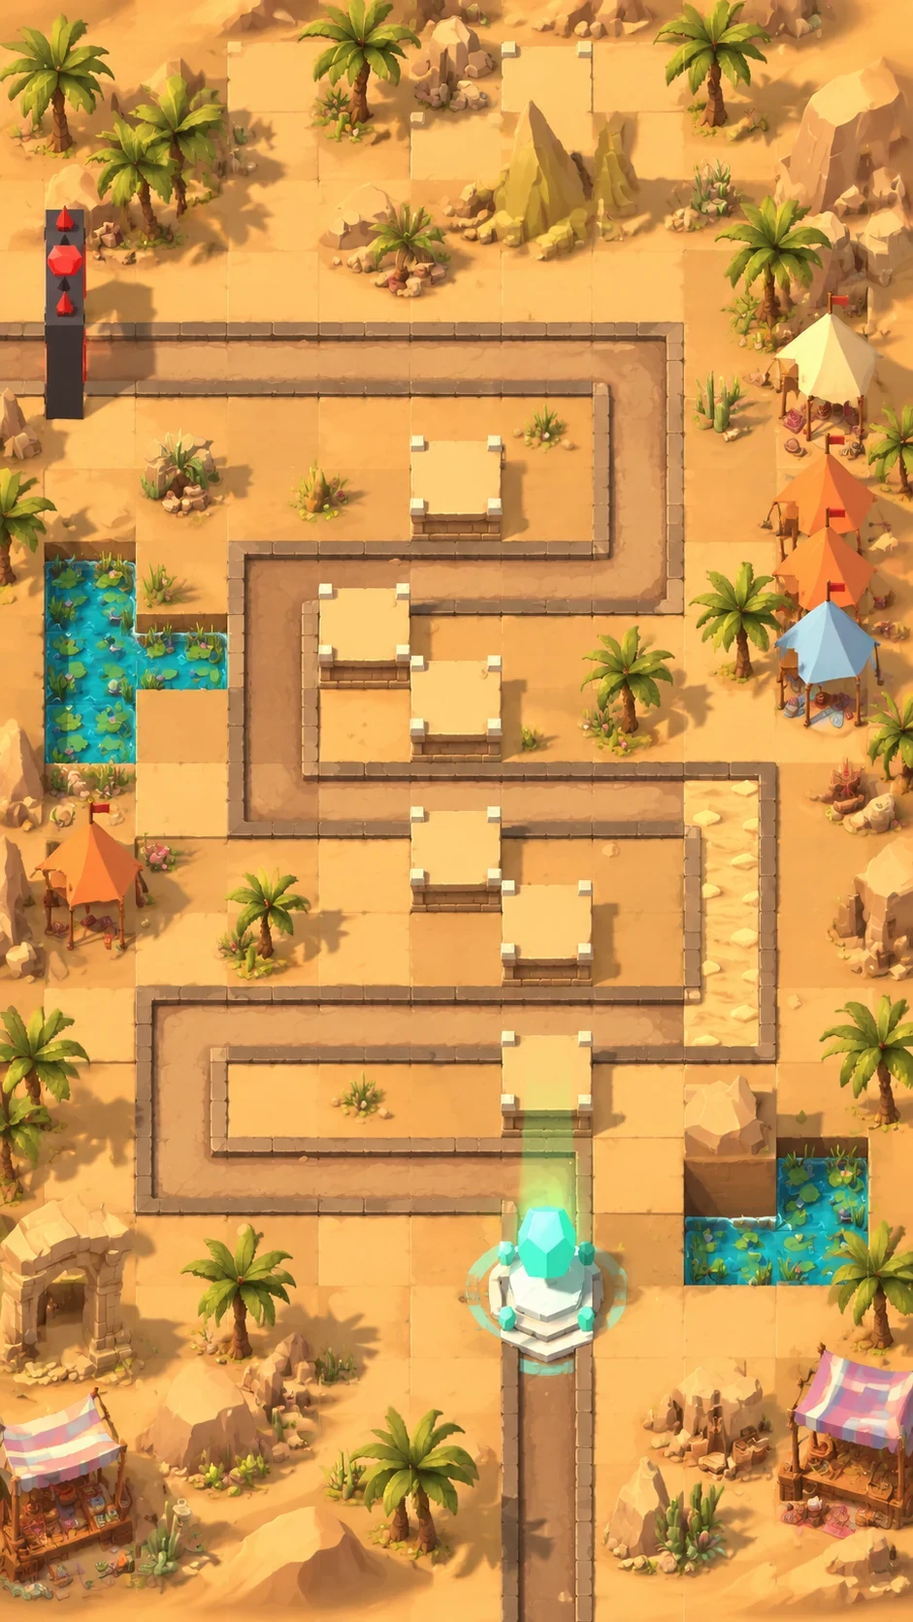
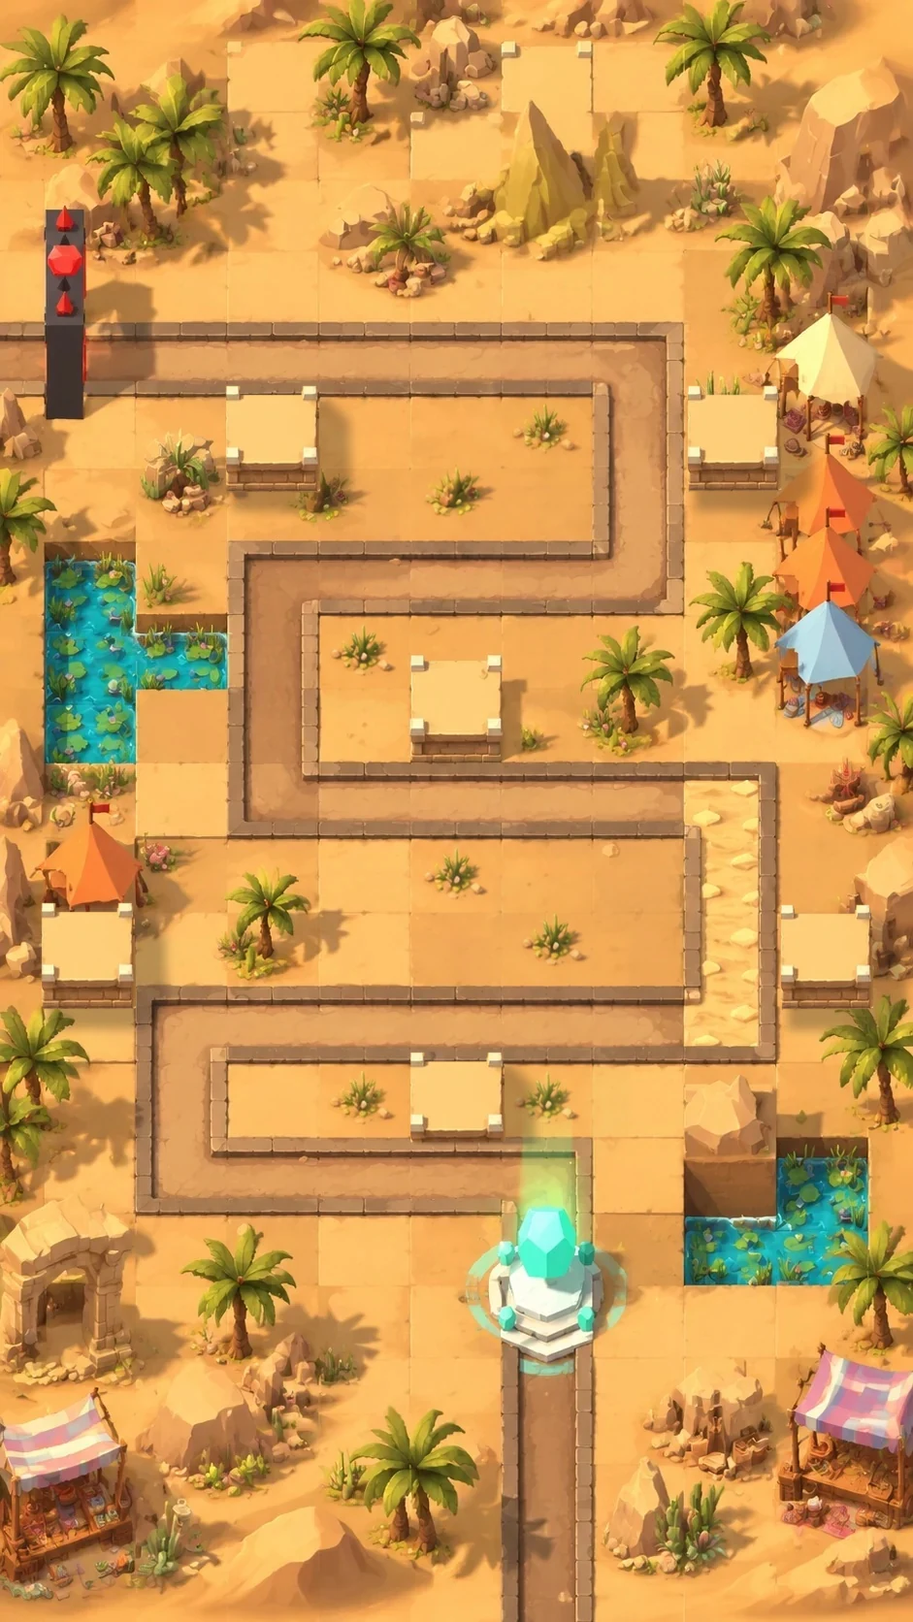
1.7.3: 전 장 발판 분산 배치(highAt) + 새 전장 그림 10장, 근접 간격 4칸, 난이도 재조정
Claude-Session: https://claude.ai/code/session_01Gn8peP3jwhA6eefzP5AmAn

diff --git a/js/data.js b/js/data.js
@@ -199,25 +199,25 @@ const SCENES={
 };
 const MAPS={
  prologue:{scene:'ruin',seed:11,w:9,h:9,paths:[[[1,-1],[1,1],[7,1],[7,4],[1,4],[1,7],[5,7],[5,9]]],
-  slow:[{path:0,from:12,to:14,type:'swamp'}],lakes:[[8,7.6,1.3]],noHigh:[[6,3],[2,6]],high:6,forest:6,cliff:1,prop:2,rock:3},
+  slow:[{path:0,from:12,to:14,type:'swamp'}],lakes:[[8,7.6,1.3]],noHigh:[[6,3],[2,6]],high:6,highAt:[[8,1],[1,2],[5,6],[0,7]],forest:6,cliff:1,prop:2,rock:3},
  fort:{scene:'fort',seed:23,w:9,h:10,paths:[[[9,1],[1,1],[1,4],[7,4],[7,7],[2,7],[2,10]]],
-  slow:[{path:0,from:13,to:16,type:'sand'}],lakes:[[8,9,1.2]],noHigh:[[6,5],[2,3]],high:6,forest:4,cliff:3,prop:3,rock:4},
+  slow:[{path:0,from:13,to:16,type:'sand'}],lakes:[[8,9,1.2]],noHigh:[[6,5],[2,3]],high:6,highAt:[[0,1],[6,2],[2,6],[8,7]],forest:4,cliff:3,prop:3,rock:4},
  river:{scene:'river',seed:37,w:9,h:11,paths:[[[4,-1],[4,1],[1,1],[1,4],[7,4],[7,7],[2,7],[2,9],[6,9],[6,11]]],
-  rivers:[{row:5,from:3,to:8}],lakes:[[0,9.5,1.2]],noHigh:[[6,8],[2,3]],high:7,forest:5,cliff:4,prop:2,rock:4},
+  rivers:[{row:5,from:3,to:8}],lakes:[[0,9.5,1.2]],noHigh:[[6,8],[2,3]],high:7,highAt:[[4,2],[0,3],[8,4],[3,6],[7,8]],forest:5,cliff:4,prop:2,rock:4},
  forest:{scene:'forest',seed:41,w:9,h:12,paths:[[[7,-1],[7,2],[1,2],[1,5],[5,5],[5,8],[1,8],[1,10],[6,10],[6,12]]],
-  slow:[{path:0,from:5,to:8,type:'swamp'},{path:0,from:19,to:21,type:'swamp'}],lakes:[[7,7,1.3]],high:7,forest:12,cliff:2,prop:4,rock:3},
+  slow:[{path:0,from:5,to:8,type:'swamp'},{path:0,from:19,to:21,type:'swamp'}],lakes:[[7,7,1.3]],high:7,highAt:[[5,1],[2,3],[6,4],[3,6],[0,9],[4,9],[7,10]],forest:12,cliff:2,prop:4,rock:3},
  city:{scene:'city',seed:53,paths:[[[1,-1],[1,3],[4,3],[4,6],[1,6],[1,9],[7,9],[7,12],[3,12],[3,14]],[[7,-1],[7,3],[4,3],[4,6],[1,6],[1,9],[7,9],[7,12],[3,12],[3,14]]],
-  rivers:[{col:8,from:5,to:7}],noHigh:[[3,2],[6,10]],high:8,forest:4,cliff:2,prop:8,rock:3},
+  rivers:[{col:8,from:5,to:7}],noHigh:[[3,2],[6,10]],high:8,highAt:[[0,2],[5,2],[0,7],[5,7],[3,11],[8,11]],forest:4,cliff:2,prop:8,rock:3},
  plain:{scene:'camp',seed:67,paths:[[[-1,1],[6,1],[6,4],[2,4],[2,7],[7,7],[7,10],[1,10],[1,12],[5,12],[5,14]]],
-  slow:[{path:0,from:22,to:25,type:'sand'}],lakes:[[0,5,1.4],[8,13,1.2]],noHigh:[[5,2],[3,11]],high:8,forest:6,cliff:2,prop:5,rock:5},
+  slow:[{path:0,from:22,to:25,type:'sand'}],lakes:[[0,5,1.4],[8,13,1.2]],noHigh:[[5,2],[3,11]],high:8,highAt:[[2,2],[7,2],[4,6],[0,9],[8,9],[4,11]],forest:6,cliff:2,prop:5,rock:5},
  ruins:{scene:'crystal',seed:79,paths:[[[4,-1],[4,2],[7,2],[7,5],[1,5],[1,8],[4,8],[4,10],[7,10],[7,12],[2,12],[2,14]]],
-  rivers:[{row:6,from:0,to:5},{row:11,from:5,to:8}],noHigh:[[6,1],[2,9]],high:8,forest:6,cliff:3,prop:6,rock:4},
+  rivers:[{row:6,from:0,to:5},{row:11,from:5,to:8}],noHigh:[[6,1],[2,9]],high:8,highAt:[[3,3],[8,3],[0,7],[5,7],[3,11],[8,12]],forest:6,cliff:3,prop:6,rock:4},
  tower:{scene:'tower',seed:83,paths:[[[-1,1],[7,1],[7,12],[1,12],[1,4],[5,4],[5,9],[3,9],[3,6]]],
-  slow:[{path:0,from:26,to:29,type:'swamp'}],high:8,noHigh:[[3,5],[6,8]],forest:4,cliff:3,prop:4,rock:4},
+  slow:[{path:0,from:26,to:29,type:'swamp'}],high:8,highAt:[[2,2],[8,2],[2,7],[8,7],[5,11],[0,12]],noHigh:[[3,5],[6,8]],forest:4,cliff:3,prop:4,rock:4},
  capital:{scene:'wall',seed:97,paths:[[[0,-1],[0,3],[3,3],[3,6],[6,6],[6,9],[2,9],[2,12],[6,12],[6,14]],[[8,-1],[8,3],[6,3],[6,6],[6,9],[2,9],[2,12],[6,12],[6,14]]],
-  rivers:[{row:10,from:4,to:8}],noHigh:[[7,5],[2,4]],high:8,forest:4,cliff:3,prop:7,rock:3},
+  rivers:[{row:10,from:4,to:8}],noHigh:[[7,5],[2,4]],high:8,highAt:[[6,1],[1,2],[7,6],[2,7],[6,11],[1,12]],forest:4,cliff:3,prop:7,rock:3},
  core:{scene:'core',seed:101,paths:[[[4,-1],[4,1],[1,1],[1,3],[7,3],[7,6],[1,6],[1,9],[7,9],[7,12],[4,12],[4,14]]],
-  slow:[{path:0,from:16,to:19,type:'swamp'}],lakes:[[4,7.6,1.1],[8,0,1.2]],noHigh:[[6,11],[2,7]],high:8,forest:7,cliff:3,prop:7,rock:3}
+  slow:[{path:0,from:16,to:19,type:'swamp'}],lakes:[[4,7.6,1.1],[8,0,1.2]],noHigh:[[6,11],[2,7]],high:8,highAt:[[2,2],[8,2],[5,5],[0,7],[8,9],[4,11]],forest:7,cliff:3,prop:7,rock:3}
 };
 
 // ── Bosses (battle 10 of each chapter) ──────────────────────────────────────────────────────────────
@@ -240,43 +240,43 @@ const BOSSES=[
 // set with the balance bot (node tools/bot.js calibrate).
 const POOLS=[[0,1,2,10,11,12],[1,3,4,10,11,15],[2,11,12,16,18,20],[0,8,13,19,20,22],[3,4,5,15,17,20,8],[11,15,16,18,20,21,24,26],[6,7,17,18,21,22,25,27],[5,15,17,20,21,22,28,29],[3,4,7,15,20,21,24,26,28],[6,7,9,17,21,22,25,27,29]];
 const CHAPTER_DEFS=[
- {id:'prologue',label:'PROLOGUE',name:'깨어난 빛',place:'국경 마을 에린',map:'prologue',battles:5,soldiers:3,bless:[2,4],diff:[.89,1,1.67],
+ {id:'prologue',label:'PROLOGUE',name:'깨어난 빛',place:'국경 마을 에린',map:'prologue',battles:5,soldiers:3,bless:[2,4],diff:[.89,1,1.08],
   names:['유적의 문','잠든 소녀','숲길의 소란','마을로 돌아가는 길'],
   intro:[['카일','이런 곳에 사람이… 괜찮아? 내 목소리 들려?'],['리아','리아… 내 이름은 리아. 그 외에는 아무것도 기억나지 않아.'],['카일','뒤에서 뭔가 움직여. 내 곁에 있어. 마을까지는 한 마리도 못 지나가게 하자.']],
   outro:[['리아','끝났어…? 저 수정이 무사해.'],['카일','응. 하지만 이건 시작일 뿐이야. 남문 쪽에서 연기가 올라오고 있어.']]},
- {id:'c1',label:'CHAPTER 01',name:'국경의 불꽃',place:'에린 남문',map:'fort',battles:6,soldiers:3,bless:[2,4],diff:[1.3,1,.44],
+ {id:'c1',label:'CHAPTER 01',name:'국경의 불꽃',place:'에린 남문',map:'fort',battles:6,soldiers:3,bless:[2,4],diff:[1.3,1,.43],
   names:['불타는 파수대','잿더미의 약속','남문의 방패','남문의 잔불','국경을 넘어서'],
   intro:[['브란','제국군이 마을을 포위했다. 퇴로는 내가 열겠다.'],['리아','저 병기들… 나를 찾고 있는 것 같아.'],['카일','누구에게도 넘기지 않아. 모두 살아서 나간다.']],
   outro:[['브란','집행관이 쓰러졌다. 지금이다, 국경을 넘어라!'],['카일','브란, 당신도 같이 가는 거야.']]},
- {id:'c2',label:'CHAPTER 02',name:'도망자',place:'회색 산맥',map:'river',battles:7,soldiers:2,bless:[3,5],diff:[1.89,1,.11],
+ {id:'c2',label:'CHAPTER 02',name:'도망자',place:'회색 산맥',map:'river',battles:7,soldiers:2,bless:[3,5],diff:[1.57,1,.46],
   names:['산길의 매복','바람길 정찰','바람의 궁수','협곡의 피난민','흔들리는 다리','설산의 문턱'],
   intro:[['세라','그 길은 막혔어. 살아서 산을 넘고 싶다면 따라와.'],['카일','우릴 왜 도와주는 거지?'],['세라','제국이 태운 마을이 너희 마을뿐인 줄 알아?']],
   outro:[['세라','폭군이 무너졌어. 이제 숲까지는 내리막이야.'],['리아','숲에서… 누군가 부르는 소리가 들려.']]},
- {id:'c3',label:'CHAPTER 03',name:'고대의 숲',place:'엘렌 숲',map:'forest',battles:8,soldiers:2,bless:[3,6],diff:[1.08,1,1.98],
+ {id:'c3',label:'CHAPTER 03',name:'고대의 숲',place:'엘렌 숲',map:'forest',battles:8,soldiers:2,bless:[3,6],diff:[1.18,1,1.06],
   names:['정령의 속삭임','오염된 뿌리','오염된 샘','숲의 샘을 지켜라','가시 덩굴 길','늪의 사냥꾼','숲의 심장'],
   intro:[['루나','정령들이 울고 있어요. 에테르의 흐름이 뒤틀렸어요.'],['리아','이 숲의 노래… 어디선가 들었어.'],['루나','당신을 두려워하는 게 아니에요. 기다리고 있었던 거예요.']],
   outro:[['루나','수호목이 잠들었어요. 숲이 다시 숨을 쉬어요.'],['카일','다음은 왕도야. 답을 아는 사람이 거기 있어.']]},
- {id:'c4',label:'CHAPTER 04',name:'왕도의 그림자',place:'왕도 레온',map:'city',battles:10,soldiers:1,bless:[3,6,9],diff:[1.43,1,.34],
+ {id:'c4',label:'CHAPTER 04',name:'왕도의 그림자',place:'왕도 레온',map:'city',battles:10,soldiers:1,bless:[3,6,9],diff:[1.07,1,.43],
   names:['지붕 위의 추적','그림자 문서','밤의 연락망','봉인된 기록','골목의 석궁','지하 서고','망령의 회랑','왕의 침묵','재상의 호위대'],
   intro:[['네로','왕궁 기록에 네 이름이 있더라. 백 년 전 문서에.'],['리아','내가… 백 년 전에?'],['네로','답을 원하면 지하 서고로 와. 경비병들은 알아서 피하고.']],
   outro:[['네로','재상은 그림자였어. 진짜는 북쪽에 있다.'],['브란','두 왕국이 움직이기 전에 평원으로 가야 한다.']]},
- {id:'c5',label:'CHAPTER 05',name:'두 왕국',place:'벨른 평원',map:'plain',battles:10,soldiers:1,bless:[3,6,9],diff:[2.35,1,.11],
+ {id:'c5',label:'CHAPTER 05',name:'두 왕국',place:'벨른 평원',map:'plain',battles:10,soldiers:1,bless:[3,6,9],diff:[1.72,1,.31],
   names:['갈라진 깃발','갈라진 전선','약탈자의 길','연합의 방어선','모래바람','황혼의 추적','포격 진지','강철의 행군','새벽의 진군'],
   intro:[['브란','두 왕국이 등을 돌린 사이 제국은 코어를 깨우고 있다.'],['세라','왕들이 못 정하면 우리가 길을 열면 돼.'],['카일','사람들을 지키자. 어느 깃발 아래에 있든.']],
   outro:[['세라','골렘이 멈췄어. 저 안에… 아르카의 문양이 있어.'],['리아','유적으로 가야 해. 내가 무엇이었는지 거기 있어.']]},
- {id:'c6',label:'CHAPTER 06',name:'아르카 유적',place:'아르카 외곽',map:'ruins',battles:10,soldiers:1,bless:[3,6,9],diff:[1.48,1,.17],
+ {id:'c6',label:'CHAPTER 06',name:'아르카 유적',place:'아르카 외곽',map:'ruins',battles:10,soldiers:1,bless:[3,6,9],diff:[1.45,1,.09],
   names:['강철의 기억','무너진 수로','에테르 수로','불씨의 통로','물안개 회랑','잠든 골렘','파수꾼의 길','수정 정원','봉인의 문'],
   intro:[['리아','나는 병기가 아니야. 병기를 멈추기 위한 열쇠였어.'],['루나','그렇다면 이번에도 멈출 수 있어요.'],['카일','과거가 널 정하게 두지 마. 지금의 선택은 네 거야.']],
   outro:[['리아','감시자가 꺼졌어. 문이 열려.'],['네로','그리고 나쁜 소식. 우리 좌표가 새고 있었어.']]},
- {id:'c7',label:'CHAPTER 07',name:'배신자',place:'검은 첨탑',map:'tower',battles:10,soldiers:1,bless:[3,6,9],diff:[2.28,1,.36],
+ {id:'c7',label:'CHAPTER 07',name:'배신자',place:'검은 첨탑',map:'tower',battles:10,soldiers:1,bless:[3,6,9],diff:[1.89,1,.16],
   names:['부서진 맹세','배신자의 흔적','거짓된 명령','나선 계단','폭풍의 층','망령의 층','검은 숲의 그림자','첨탑의 진실','대공의 날개'],
   intro:[['네로','연합군의 좌표를 넘긴 건 왕의 고문이었어.'],['브란','우리를 미끼로 썼다는 건가.'],['리아','코어가 모든 전장의 에테르를 흡수하고 있어. 전쟁 자체가 함정이야.']],
   outro:[['카일','대공이 떨어졌다. 남은 건 수도뿐이야.'],['세라','성문이 보여. 이젠 물러설 곳이 없어.']]},
- {id:'c8',label:'CHAPTER 08',name:'제국 수도',place:'북부 제국 아스켈',map:'capital',battles:10,soldiers:1,bless:[3,6,9],diff:[1.43,1,.25],
+ {id:'c8',label:'CHAPTER 08',name:'제국 수도',place:'북부 제국 아스켈',map:'capital',battles:10,soldiers:1,bless:[3,6,9],diff:[1.18,1,.32],
   names:['제국의 성문','수도의 피난길','불타는 거리','황혼의 광장','근위 석궁대','화염 포격','강철 근위대','왕좌의 계단','왕좌 너머'],
   intro:[['세라','성문이 열렸어. 이젠 물러설 곳이 없어.'],['카일','우린 제국을 무너뜨리러 온 게 아니야. 전쟁을 끝내러 왔어.'],['리아','코어의 목소리가 가까워지고 있어. 서둘러야 해.']],
   outro:[['카일','황제는 이미 오래전에 코어의 그림자였어.'],['리아','아래로 내려가는 길이 열렸어. 마지막이야.']]},
- {id:'final',label:'FINAL',name:'마지막 아르카',place:'코어의 심층',map:'core',battles:10,soldiers:1,bless:[3,6,9],diff:[1.89,1,.1],
+ {id:'final',label:'FINAL',name:'마지막 아르카',place:'코어의 심층',map:'core',battles:10,soldiers:1,bless:[3,6,9],diff:[1.35,1,.09],
   names:['기억의 회랑','마지막 에테르','수정의 파도','불과 물의 방','바람의 방','골렘의 무덤','비룡의 둥지','여섯 개의 빛','심층의 문'],
   intro:[['리아','다시 나를 봉인하면 모든 걸 멈출 수 있어.'],['카일','그건 백 년 전의 답이야. 이번에는 혼자가 아니잖아.'],['리아','응. 이번에는… 모두 함께 돌아가자.']],
   outro:[['리아','코어가 잠들었어. 이번에는… 나도 여기 있어.'],['카일','돌아가자. 모두 함께.']]}
@@ -374,15 +374,15 @@ function legacyTotal(id,n){const l=LEGACIES.find(v=>v.id===id);if(!l)return '';
 const MAP_ART={
  prologue:{file:'art/prologue.webp',rect:[0.0000,-0.0023,1.0000,0.9982],bg:'#66832b'},
  fort:{file:'art/fort.webp',rect:[-0.0083,0.0023,1.0017,1.0129],bg:'#618048'},
- river:{file:'art/river.webp',rect:[-0.0042,0.0000,0.9958,1.0005],bg:'#8ea0bf'},
+ river:{file:'art/river.webp',rect:[-0.0042,0.0000,0.9958,1.0005],bg:'#8e9fbe'},
  forest:{file:'art/forest.webp',rect:[-0.0125,-0.0352,0.9975,0.9450],bg:'#314720'},
- city:{file:'art/city.webp',rect:[-0.0042,0.0023,0.9958,0.9929],bg:'#a5562e'},
- plain:{file:'art/plain.webp',rect:[-0.0042,-0.0164,1.0058,0.9841],bg:'#cf914a'},
+ city:{file:'art/city.webp',rect:[-0.0042,0.0023,0.9958,0.9929],bg:'#a5562d'},
+ plain:{file:'art/plain.webp',rect:[-0.0042,-0.0164,1.0058,0.9841],bg:'#cd914a'},
  ruins:{file:'art/ruins.webp',rect:[0.0000,-0.0023,1.0000,0.9982],bg:'#314c24'},
- tower:{file:'art/tower.webp',rect:[-0.0042,-0.0258,0.9958,0.9747],bg:'#443334'},
- capital:{file:'art/capital.webp',rect:[-0.0083,-0.0399,1.0017,0.9707],bg:'#593c35'},
- core:{file:'art/core.webp',rect:[0.0000,0.0000,1.0000,1.0005],bg:'#272d43'}
+ tower:{file:'art/tower.webp',rect:[-0.0042,-0.0258,0.9958,0.9747],bg:'#433334'},
+ capital:{file:'art/capital.webp',rect:[-0.0083,-0.0399,1.0017,0.9707],bg:'#593c34'},
+ core:{file:'art/core.webp',rect:[0.0000,0.0000,1.0000,1.0005],bg:'#262d43'}
 };
-const TDData={WORLD_MAP,ALTAR,legacyTotal,SOLDIER_POWER,MAP_ART,legacyScale,unitStats,RANGED_INTERVAL,RANGED_POWER,MELEE_INTERVAL,MELEE_POWER,GATE_GAP:2,seeded,LEGACIES,legacyOffer,legacyCounts,typicalLegacy,MELEE_GAP:3,SKILLS,UNITS,HERO_ORDER,SOLDIER_ORDER,RANK_COST,RANK_STAT,RANK_GUARD,REFUND,WITHDRAW_CD,DOWN_CD,ENGAGE_SLOW,MONSTERS,MODEL_TRAITS,MOVE_SPEED,ELEMENT_ICON,SCENES,MAPS,CHAPTERS,BOSSES,BLESSINGS};
+const TDData={WORLD_MAP,ALTAR,legacyTotal,SOLDIER_POWER,MAP_ART,legacyScale,unitStats,RANGED_INTERVAL,RANGED_POWER,MELEE_INTERVAL,MELEE_POWER,GATE_GAP:2,seeded,LEGACIES,legacyOffer,legacyCounts,typicalLegacy,MELEE_GAP:4,SKILLS,UNITS,HERO_ORDER,SOLDIER_ORDER,RANK_COST,RANK_STAT,RANK_GUARD,REFUND,WITHDRAW_CD,DOWN_CD,ENGAGE_SLOW,MONSTERS,MODEL_TRAITS,MOVE_SPEED,ELEMENT_ICON,SCENES,MAPS,CHAPTERS,BOSSES,BLESSINGS};
 if(typeof module!=='undefined'&&module.exports)module.exports=TDData;else root.TDData=TDData;
 })(typeof window!=='undefined'?window:globalThis);

diff --git a/revisions.html b/revisions.html
@@ -36,8 +36,14 @@ details.rev summary{cursor:pointer}
 <h1>Revision History</h1>
 <p class="lead">큰 변화는 두 번째 자리(1.1.0), 작은 수정은 세 번째 자리(1.0.1)를 올립니다.</p>
 
+<section class="rev" id="v1.7.3">
+<h2>ver.1.7.3 <span class="date">2026-11-26</span> <span class="tag">현재</span></h2>
+<h3>변경</h3><ul><li>모든 전장의 원거리 발판을 다시 배치했습니다 — 개수는 그대로, 가운데에 몰려 있던 발판을 전장 전체(입구 쪽 · 가운데 · 수정 쪽 · 양옆)로 흩어 놓았고, 구부러진 길 바깥쪽의 외곽 발판도 생겼습니다. 전장 그림도 새 발판에 맞춰 다시 그렸습니다</li></ul>
+<h3>밸런스</h3><ul><li>길 위의 근접 동료끼리 떨어져야 하는 거리를 3칸에서 4칸으로 늘렸습니다 — 근접 동료도 길 전체에 나눠 세우게 됩니다</li><li>바뀐 배치에 맞춰 장별 난이도를 다시 맞췄습니다</li></ul>
+</section>
+
 <section class="rev" id="v1.7.2">
-<h2>ver.1.7.2 <span class="date">2026-11-26</span> <span class="tag">현재</span></h2>
+<h2>ver.1.7.2 <span class="date">2026-11-26</span></h2>
 <h3>변경</h3><ul><li>전투 화면을 정리했습니다 — 자동 기술 이름 글자를 없애고(필살기 이름만 표시), 콤보는 글자 대신 빛으로, 기본 공격과 동료가 받는 피해 숫자는 숨기고, 한 몬스터에 잇달아 들어간 기술 피해는 숫자 하나로 합쳐 보여 줍니다</li><li>전투 중에는 동료 머리 위 랭크 별을 숨기고(준비 시간이나 선택했을 때만 표시), 체력바는 다쳤을 때만 보입니다</li></ul>
 <h3>밸런스</h3><ul><li>적 출현 문 근처 근접 배치 금지 거리를 3칸에서 2칸으로 줄였습니다 — 화면 위쪽 길도 쓸 수 있습니다</li><li>명당이 동료들이 이미 모여 있는 곳보다 비어 있는 쪽에 더 자주 생깁니다</li><li>바뀐 배치에 맞춰 장별 난이도를 다시 맞췄습니다</li></ul>
 </section>

diff --git a/sw.js b/sw.js
@@ -1,6 +1,6 @@
 // cnation TD service worker: lets the game be added to the home screen and opened offline.
 // Network first, so a new deploy shows up on the next open; the cache is only a fallback. Music is cache-first (large, never changes).
-const VERSION='1.7.2',CACHE='cnation-td-'+VERSION;
+const VERSION='1.7.3',CACHE='cnation-td-'+VERSION;
 const CORE=['./','index.html','manifest.webmanifest','vendor/three-r170.js','js/data.js','js/sim.js','js/models.js','js/game.js','fonts/stylish.woff2','fonts/gowun-dodum.woff2','icons/icon-192.png','icons/icon-512.png','icons/apple-touch-icon.png','icons/favicon-64.png','revisions.html'];
 self.addEventListener('install',e=>{e.waitUntil(caches.open(CACHE).then(c=>c.addAll(CORE)).catch(()=>{}));self.skipWaiting();});
 self.addEventListener('activate',e=>{e.waitUntil(caches.keys().then(keys=>Promise.all(keys.filter(k=>k.startsWith('cnation-td-')&&k!==CACHE).map(k=>caches.delete(k)))).then(()=>self.clients.claim()));});

diff --git a/index.html b/index.html
@@ -294,10 +294,10 @@ html,body{margin:0;height:100%;overflow:hidden;background:#0d1a1e;color:var(--in
  <div id="modal" hidden></div>
 </div>
 <script src="vendor/three-r170.js"></script>
-<script src="js/data.js?v=1.7.2"></script>
-<script src="js/sim.js?v=1.7.2"></script>
-<script src="js/models.js?v=1.7.2"></script>
-<script src="js/game.js?v=1.7.2"></script>
+<script src="js/data.js?v=1.7.3"></script>
+<script src="js/sim.js?v=1.7.3"></script>
+<script src="js/models.js?v=1.7.3"></script>
+<script src="js/game.js?v=1.7.3"></script>
 <script>if('serviceWorker' in navigator&&location.protocol!=='file:')window.addEventListener('load',()=>navigator.serviceWorker.register('sw.js').catch(()=>{}));</script>
 </body>
 </html>

diff --git a/CLAUDE.md b/CLAUDE.md
@@ -36,7 +36,7 @@ Unless the owner says otherwise, every finished change is committed, pushed to t
 - Chapters are generated from `CHAPTER_DEFS` by `buildChapter` (waves from `POOLS`, roster from `JOIN_AT`). Maps in `MAPS` are grown
   around the road by `sim.buildMap` from each map's seed, so the same map always comes out the same.
 - Melee characters do not stop monsters: a monster inside a melee unit's tile (up to `block` at once) moves at `ENGAGE_SLOW` (2/3) and hits it.
-  Melee units on the road must stand at least `MELEE_GAP` (3) tiles apart (`canDeploy`); the screen shows the forbidden zone while placing.
+  Melee units on the road must stand at least `MELEE_GAP` (4 since 1.7.3) tiles apart (`canDeploy`); the screen shows the forbidden zone while placing.
 - 필살기 (1.7.0, the core of play): power arcaslash 8, meteor 7.2, eclipse 9.6, hawk 19 (×1.6 of 1.2.0); bosses take full damage. Ult damage events
   carry `ult`/`pct`/`aff` (the affinity share, shown as a second number) / `element` / `chain`; the screen shows a landing reticle, impact,
   an element flourish (`elemfx`), hit stop and big popping numbers.
@@ -59,8 +59,9 @@ Unless the owner says otherwise, every finished change is committed, pushed to t
 - Battle declutter (1.7.2): no name labels for auto skills (필살기 only), combos are a gold ring (암습 a red X), no numbers for basic attacks or
   damage to allies, skill hits on one monster within 0.3 s merge into one number (`numOf`, dmg events carry `skill`); character HP bars only
   when hurt and ★ only while preparing or selected.
-- Pedestal spread (planned, docs/REPAINT2.md): `MAPS[id].highAt` = hand-placed pedestals (same count, spread out, 1–3 outer-bend spots);
-  applied together with the repainted art, then recalibrate.
+- Pedestal spread (1.7.3, docs/REPAINT2.md): every map has `MAPS[id].highAt` = hand-placed pedestals (same count, spread as far apart as
+  possible, 1–3 outer-bend spots; replaces the grown high cells), and the paintings were repainted to match. To move a pedestal: edit
+  `highAt`, re-make the guide, repaint, `fit-art.py --apply`.
 - 수정 조각: `S.shardIn` (first 18 s, then 40 s of battle) → `S.shard` + event `shard`; `S.giveShard(id|null)` → `shardGiven`, `u.shardT`=20.
   The screen drops it in a light pillar, floats it above the dock (`#shard` in #app), drag onto a card/field hero or tap → tap; 0.25× speed while
   choosing, random after `SHARD_SECONDS` 5 real s. The sim gives it at random after 20 s by itself (bot/demo).
@@ -70,8 +71,8 @@ Unless the owner says otherwise, every finished change is committed, pushed to t
 - Maps have their own size (`MAPS[id].w/h`): early chapters are smaller (9×9 … 9×12), 9×14 from chapter 4.
 - Basic attacks: ranged `RANGED_INTERVAL` 1.2 / `RANGED_POWER` 0.3, melee `MELEE_INTERVAL` 0.7 / `MELEE_POWER` 0.7 of the base numbers;
   skills, 필살기 and heals are not affected. No melee on the road within `GATE_GAP` (2 since 1.7.2) tiles of a monster gate (`map.gates`).
-- Placement: melee on road/grass/forest/bridge; ranged (heroes and soldiers) only on high ground — raised tiles beside the road,
-  `MAPS[id].high` of them (6–8), never two edge to edge (`buildMap`).
+- Placement: melee on road/grass/forest/bridge; ranged (heroes and soldiers) only on high ground — the pedestals in `MAPS[id].highAt`
+  (4–7 per map; `high` only seeds the grown map).
 - Slots: every joined hero may be on the field at once (one of each); soldiers only up to `S.soldierCap` = `CHAPTER_DEFS[].soldiers`
   (3,3,2,2,1…1) + legacy 「지휘관의 위엄」 (`command`, +1 each, max 2). `S.slotFree(def)` / `S.soldierCount()`; HUD shows 👑 heroes and 🪖 soldiers.
 - Painted backgrounds (`docs/ART.md`): a map with an entry in `MAP_ART` (js/data.js) shows `art/<map>.webp` in an <img> behind the

diff --git a/docs/REPAINT2.md b/docs/REPAINT2.md
@@ -1,4 +1,6 @@
-# 발판 분산 배치 — 그림 부분 수정 (ver.1.7.2 예정)
+# 발판 분산 배치 — 그림 부분 수정 (완료: ver.1.7.3)
+
+> 완료. 수정 그림은 art/*.webp에 반영했고 `MAPS[id].highAt`에 아래 좌표를 넣었습니다.
 
 전투가 화면 가운데에만 몰리지 않도록 원거리 발판(올라온 돌 받침)을 **개수는 그대로 두고** 전장 전체에 흩어 놓습니다.
 발판끼리 가장 가까운 거리가 최대가 되도록 골랐고, 장마다 구부러진 길 바깥쪽의 **외곽 발판**(길이 5칸 이하로 보이는 자리)을 1~3개 일부러 넣었습니다.

diff --git a/README.md b/README.md
@@ -3,7 +3,7 @@
 cnation TACTICS(아르카 연대기)의 영웅·몬스터·지형으로 만든 세로형 모바일 디펜스 게임입니다.
 탑 대신 **동료를 전장에 세워** 길을 따라 밀려오는 몬스터를 막습니다.
 
-- 현재 버전: **ver.1.7.2** — 프롤로그부터 FINAL까지 전체 10장, 영웅 6명·병사 5종·몬스터 30종·보스 10종
+- 현재 버전: **ver.1.7.3** — 프롤로그부터 FINAL까지 전체 10장, 영웅 6명·병사 5종·몬스터 30종·보스 10종
 - 기획안: [`docs/GDD.md`](docs/GDD.md)
 
 ## 실행
